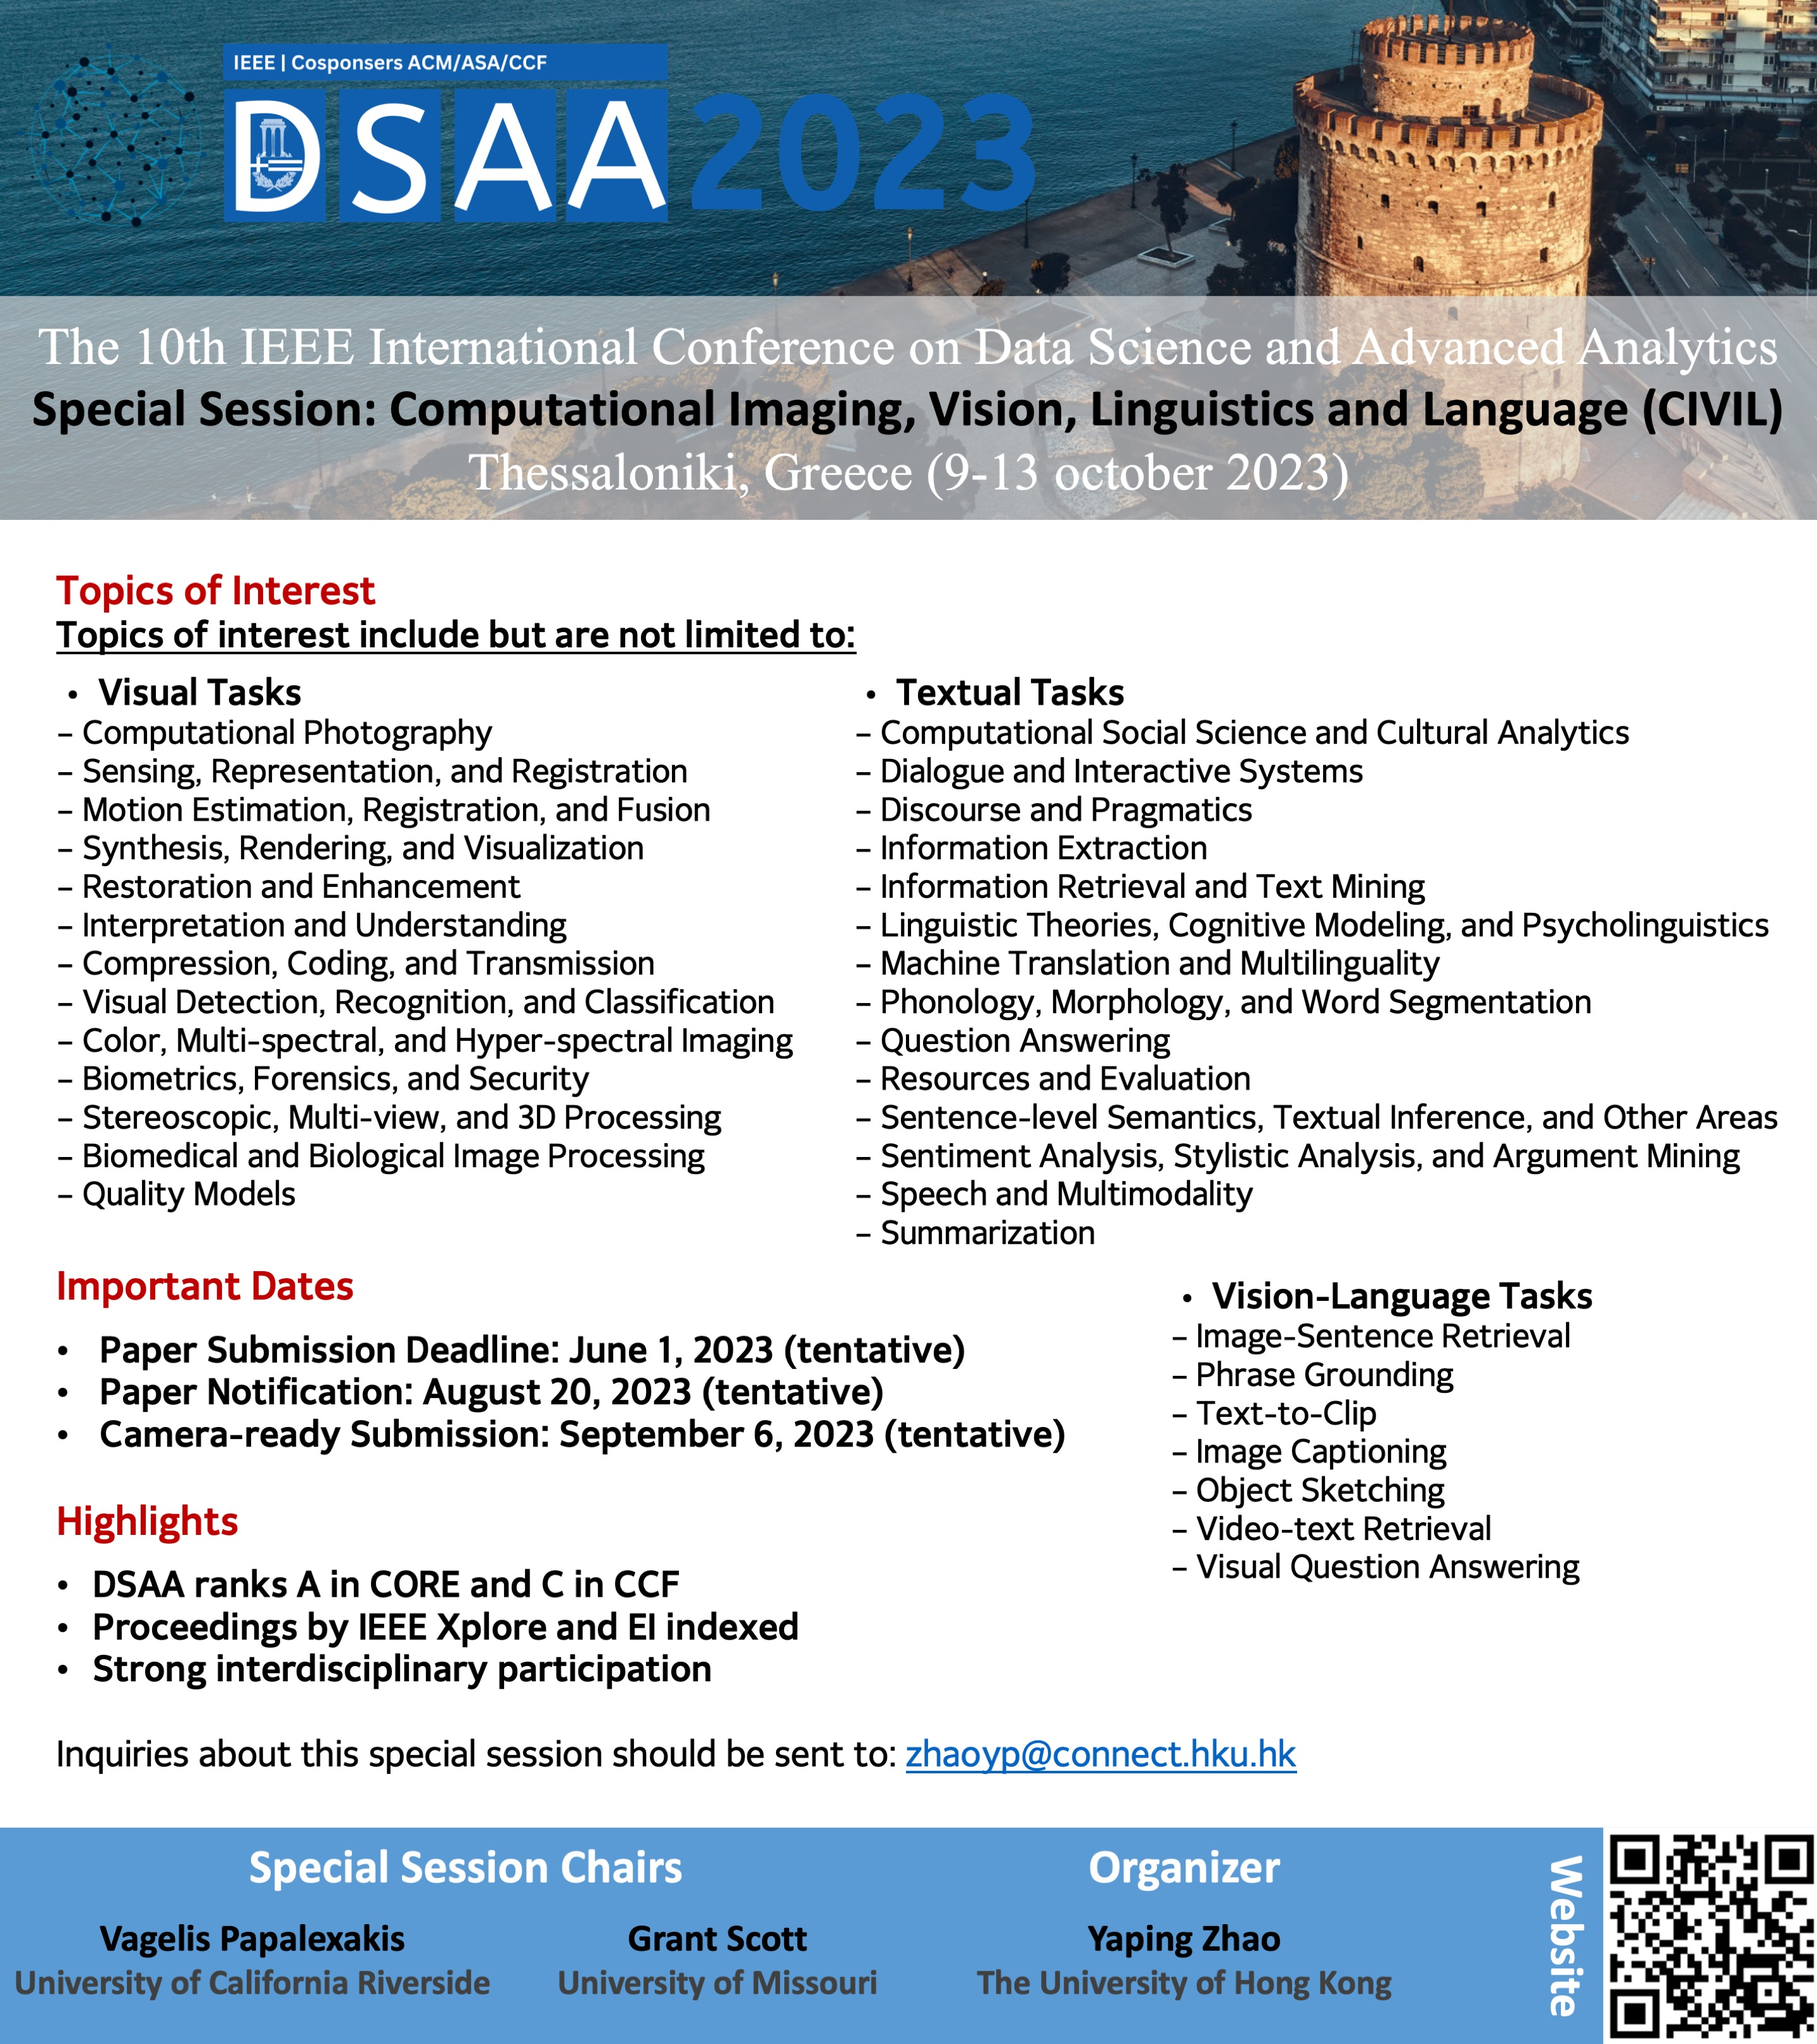
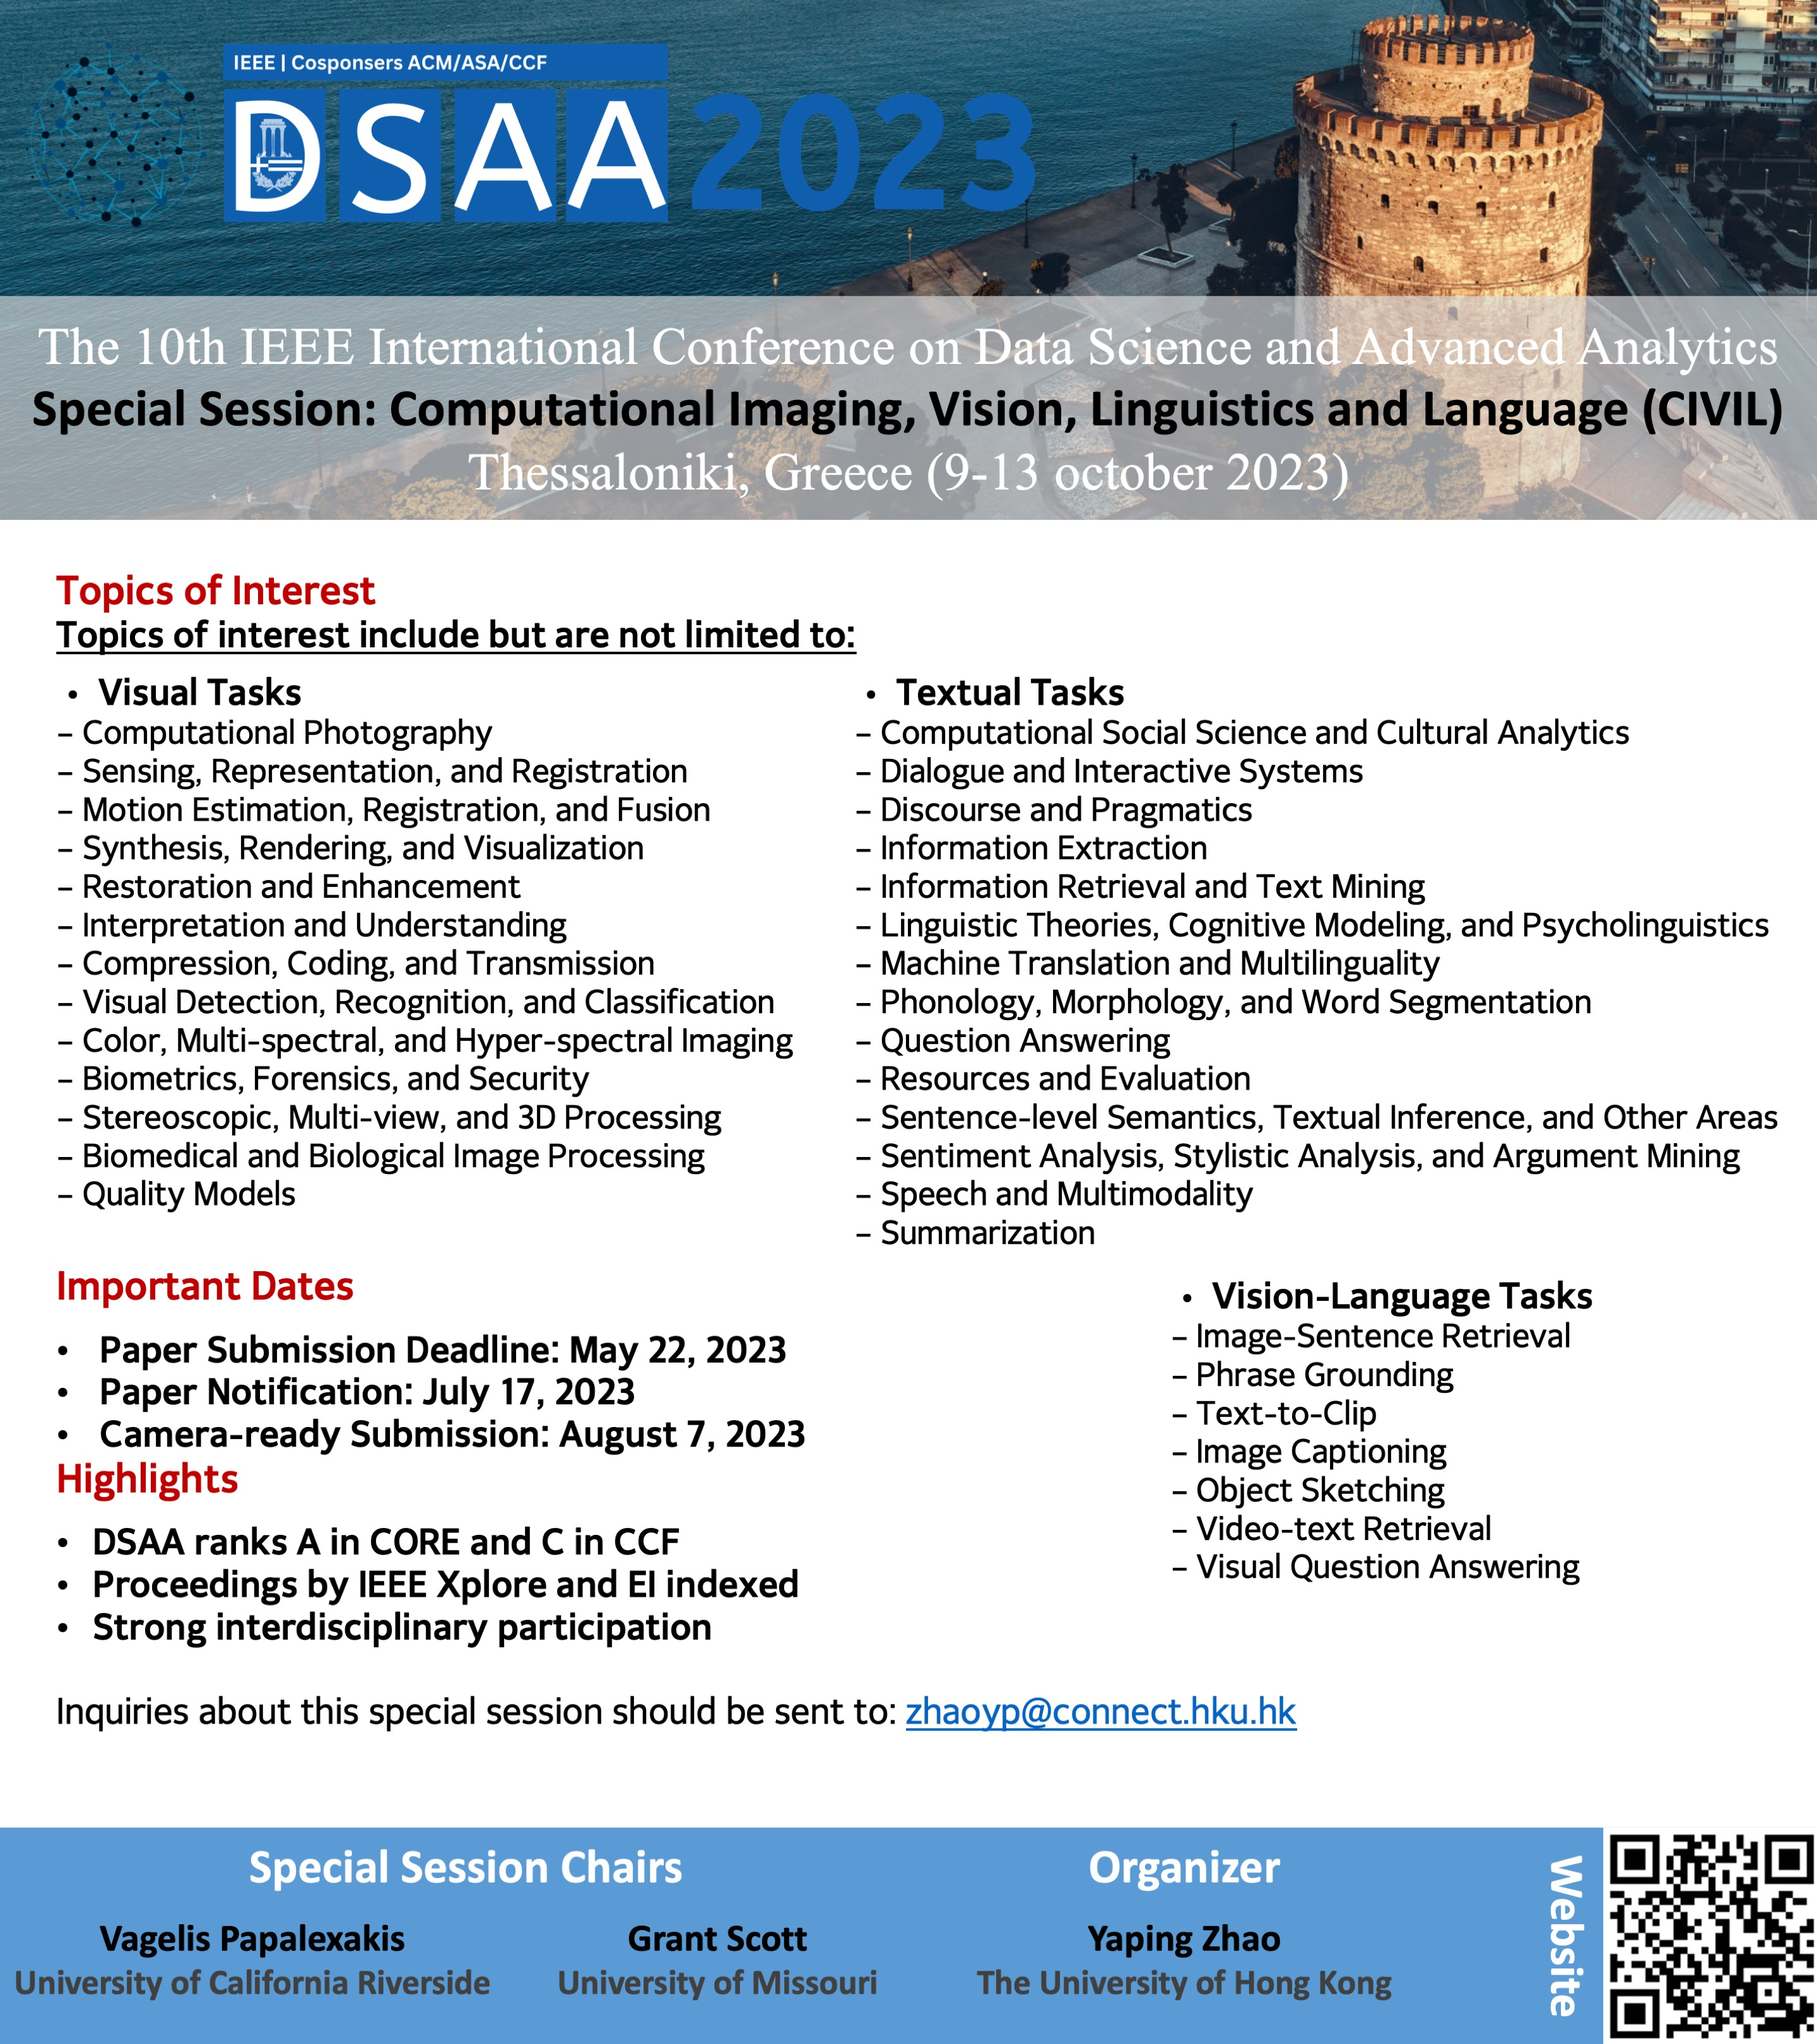
update DSAA2023 deadline

Changed region(s): [[0.0312, 0.717, 0.7188, 0.8728], [0.2188, 0.6546, 0.5938, 0.717]]

diff --git a/DSAA/dsaa2023.html b/DSAA/dsaa2023.html
@@ -136,8 +136,8 @@ var _hmt = _hmt || [];
 
 
 					<ul>
-						<li>Paper Submission Deadline: May 2, 2023</li>
-						<li>Paper Notification: July 10, 2023</li>
+						<li>Paper Submission Deadline: May 22, 2023</li>
+						<li>Paper Notification: July 17, 2023</li>
 						<li>Camera-ready Submission: August 7, 2023</li>
 					</ul>
 
